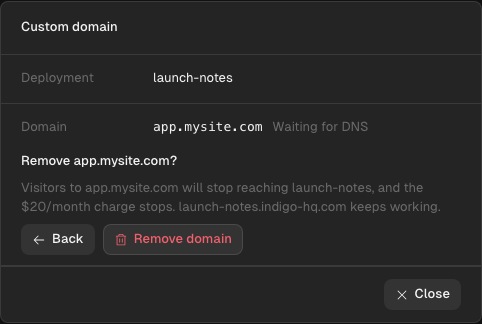
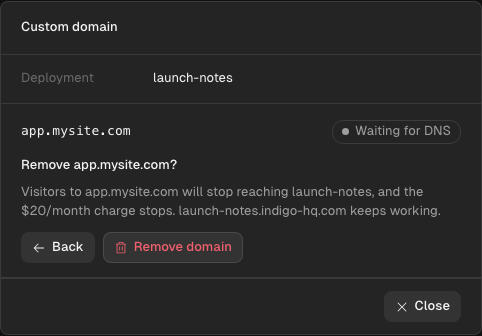
feat(deployments): clean DNS step in the Custom domain sheet
Yousuf asked for a cleaner DNS popup. The domain sits at the top with a
status chip (Waiting for DNS, Verifying, Live). Each record is a numbered
card with a plain title, one purpose line, and Name and Value rows with
their own copy buttons. Long names wrap once, after the random label, so
the domain stays whole. Verifying covers a check in progress and an issued
certificate that is not serving yet. Remove is a ghost button. 13px only;
hierarchy from weight, tone and hairlines, on the app tokens.

diff --git a/packages/ui/src/company/files-connect/CustomDomainForm.svelte b/packages/ui/src/company/files-connect/CustomDomainForm.svelte
@@ -18,8 +18,9 @@
     dnsRecordsFor,
     domainErrorCopy,
     domainInputProblem,
-    domainStatusCopy,
+    domainStatus,
     formatUsd,
+    hostSegments,
     inputProblemCopy,
     listWithRetry,
     LIST_RETRY_DELAYS_MS,
@@ -246,9 +247,14 @@
     }
   }
 
-  function status(d: DomainRecord): string {
-    return domainStatusCopy(d, serving[d.domain] === true, certStatus[d.domain] ?? "");
+  function status(d: DomainRecord) {
+    return domainStatus(d, serving[d.domain] === true, certStatus[d.domain] ?? "", busy === "refresh");
   }
+  const recordTitle = (r: DnsRecord) => (r.purpose === "ownership" ? "Certificate record" : "Website record");
+  const recordWhy = (r: DnsRecord, domain: string) =>
+    r.purpose === "ownership"
+      ? `Lets HQ confirm you own ${domain} and set up its secure (https) certificate.`
+      : `Sends people who visit ${domain} to ${appName}.`;
   const isLive = (d: DomainRecord) => serving[d.domain] === true || d.state === "validated";
 </script>
 
@@ -264,17 +270,14 @@
   {:else}
     {#each domains as d (d.domain)}
       <div class="domain" data-testid="custom-domain-row" data-domain={d.domain}>
-        <div class="fr">
-          <span class="lb">Domain</span>
-          <span class="dline">
-            <span class="mono">{d.domain}</span>
-            <span class="st" class:live={isLive(d)} data-testid="custom-domain-status">{status(d)}</span>
-          </span>
+        <div class="head">
+          <span class="mono name">{d.domain}</span>
+          <span class="chip" data-tone={status(d).tone} data-testid="custom-domain-status"><i class="dot" aria-hidden="true"></i>{status(d).label}</span>
         </div>
         {#if canManage && confirmRemove === d.domain}
           <div class="confirm" data-testid="custom-domain-confirm">
             <p class="sec">Remove {d.domain}?</p>
-            <p class="hint flat">Visitors to {d.domain} will stop reaching {appName}, and the {price} charge stops. {appHost ? `${appHost} keeps working.` : ""}</p>
+            <p class="flat body">Visitors to {d.domain} will stop reaching {appName}, and the {price} charge stops. {appHost ? `${appHost} keeps working.` : ""}</p>
             <div class="row-actions">
               <RailButton icon="arrow-left" disabled={busy === "remove"} onclick={() => (confirmRemove = null)}>Back</RailButton>
               <RailButton icon="trash" variant="danger" data-testid="custom-domain-remove-confirm" disabled={busy === "remove"} aria-busy={busy === "remove"} onclick={() => void remove(d.domain)}>{busy === "remove" ? "Removing…" : "Remove domain"}</RailButton>
@@ -286,29 +289,48 @@
               {#if preparing[d.domain]}
                 <p class="hint flat" role="status" data-testid="custom-domain-records-loading">Getting the DNS records for {d.domain}…</p>
               {:else}
-                <p class="hint flat">Add {(records[d.domain] ?? []).length === 1 ? "this record" : "these records"} at the company that hosts DNS for {d.domain}:</p>
-                <div class="grid" role="table" aria-label={`DNS records for ${d.domain}`}>
-                  <div class="gh" role="row"><span role="columnheader">Type</span><span role="columnheader">Name</span><span role="columnheader">Value</span><span></span></div>
-                  {#each records[d.domain] ?? [] as r (r.name)}
-                    <div class="gr" role="row" data-testid={`custom-domain-record-${r.purpose}`}>
-                      <span role="cell">{r.type}</span>
-                      <span role="cell" class="mono">{r.name}</span>
-                      <span role="cell" class="mono">{r.value}</span>
-                      <button data-icon-only class="copy" type="button" data-testid="custom-domain-copy" aria-label={copied === r.value ? "Copied" : `Copy ${r.purpose === "routing" ? "target" : "value"}`} title={copied === r.value ? "Copied" : "Copy"} onclick={() => void copy(r.value)}><RailIcon name={copied === r.value ? "check" : "copy"} /></button>
-                    </div>
-                    <p class="why">{r.purpose === "ownership" ? "Proves you own the domain so HQ can issue its certificate." : "Sends visitors to this deployment."}</p>
-                  {/each}
-                </div>
+                {#if status(d).tone === "verifying" && busy !== "refresh"}
+                  <p class="lead" data-testid="custom-domain-verifying">HQ found your records and is finishing setup. This usually takes a few minutes. Keep the records in place.</p>
+                {:else}
+                  <p class="lead">Add {(records[d.domain] ?? []).length === 1 ? "this record" : `these ${(records[d.domain] ?? []).length} records`} where you manage DNS for {d.domain}, usually the site where you bought it. Then choose Check again.</p>
+                {/if}
+                {#each records[d.domain] ?? [] as r, i (r.name)}
+                  <section class="rec" aria-label={recordTitle(r)} data-testid={`custom-domain-record-${r.purpose}`}>
+                    <header class="rh">
+                      <span class="num" aria-hidden="true">{i + 1}</span>
+                      <span class="rt">{recordTitle(r)}</span>
+                      <span class="type" title="Record type">{r.type}</span>
+                    </header>
+                    <p class="why">{recordWhy(r, d.domain)}</p>
+                    <dl class="kv">
+                      {#each [["Name", r.name], ["Value", r.value]] as [label, text] (label)}
+                        <dt>{label}</dt>
+                        <dd class="mono" title={text}>{#each hostSegments(text) as part, j (j)}<span class="seg">{part}</span><wbr />{/each}</dd>
+                        <button
+                          data-icon-only
+                          class="copy"
+                          type="button"
+                          data-testid={label === "Name" ? "custom-domain-copy-name" : "custom-domain-copy"}
+                          aria-label={copied === text ? "Copied" : `Copy ${label.toLowerCase()}`}
+                          title={copied === text ? "Copied" : `Copy ${label.toLowerCase()}`}
+                          onclick={() => void copy(text)}
+                        ><RailIcon name={copied === text ? "check" : "copy"} /></button>
+                      {/each}
+                    </dl>
+                  </section>
+                {/each}
                 {#if !(records[d.domain] ?? []).some((r) => r.purpose === "ownership")}
                   <p class="hint flat" data-testid="custom-domain-records-partial">The certificate record isn't ready yet. Check again in a minute to see it.</p>
                 {/if}
+                {#if status(d).tone !== "verifying"}<p class="tip" data-testid="custom-domain-name-tip">If your DNS site adds {d.domain} to names by itself, enter only the part before it, or @ for {d.domain} itself.</p>{/if}
               {/if}
             </div>
           {/if}
           <div class="row-actions">
             {#if !isLive(d)}<RailButton icon="refresh" data-testid="custom-domain-refresh" disabled={busy !== null || preparing[d.domain] === true} aria-busy={busy === "refresh"} onclick={() => void refresh(d.domain)}>{busy === "refresh" ? "Checking…" : "Check again"}</RailButton>{/if}
             {#if isLive(d)}<RailButton icon="external" onclick={() => openExternal?.(`https://${d.domain}`)}>Open</RailButton>{/if}
-            <RailButton icon="trash" data-testid="custom-domain-remove" disabled={busy !== null} onclick={() => { confirmRemove = d.domain; actionError = null; notice = null; }}>Remove</RailButton>
+            <span class="grow"></span>
+            <RailButton icon="trash" variant="ghost" data-testid="custom-domain-remove" disabled={busy !== null} onclick={() => { confirmRemove = d.domain; actionError = null; notice = null; }}>Remove</RailButton>
           </div>
         {/if}
       </div>
@@ -373,20 +395,38 @@
   .mono { font-family: var(--font-mono, ui-monospace, monospace); overflow-wrap: anywhere; }
   .loading { padding: 6px 12px; }
   .domain { border-bottom: 1px solid var(--panel-border, var(--v4-rowline)); }
-  .domain .fr { border-bottom: 0; }
-  .dline { display: flex; align-items: center; gap: 10px; min-width: 0; flex-wrap: wrap; }
-  .st { color: var(--t3, var(--v4-text-3)); }
-  .st.live { color: var(--ok-ink, var(--t1)); }
-  .dns { display: flex; flex-direction: column; gap: 8px; padding: 0 20px 10px; }
-  .grid { display: grid; grid-template-columns: 56px minmax(0, 1fr) minmax(0, 1.4fr) auto; gap: 4px 10px; align-items: start; }
-  .gh, .gr { display: contents; }
-  .gh span { color: var(--t3, var(--v4-text-3)); }
-  .why { grid-column: 2 / -1; margin: -2px 0 6px; color: var(--t3, var(--v4-text-3)); }
+  /* Domain status: the name, then a chip. Weight and tone carry the hierarchy; 13px throughout. */
+  .head { display: flex; align-items: center; gap: 12px; min-height: 28px; padding: 14px 20px 10px; }
+  .head .name { flex: 1; min-width: 0; font-weight: 500; color: var(--t1, var(--v4-text-1)); }
+  .chip { display: inline-flex; align-items: center; gap: 6px; flex: none; height: 22px; padding: 0 9px; border-radius: 11px; border: 1px solid var(--line2, var(--v4-control-border)); color: var(--t2, var(--v4-text-2)); white-space: nowrap; }
+  .chip[data-tone="failed"] { white-space: normal; height: auto; padding: 3px 9px; }
+  .dot { width: 7px; height: 7px; border-radius: 50%; flex: none; background: var(--t2, var(--v4-text-2)); }
+  .chip[data-tone="verifying"] .dot, .chip[data-tone="failed"] .dot { background: var(--warn, var(--v4-warn)); }
+  .chip[data-tone="live"] { color: var(--ok-ink, var(--t1)); }
+  .chip[data-tone="live"] .dot { background: var(--ok, var(--v4-ok)); }
+  .dns { display: flex; flex-direction: column; gap: 12px; padding: 0 20px 14px; }
+  .lead { margin: 0; color: var(--t2, var(--v4-text-2)); }
+  /* One card per record: number, plain title, type; a purpose line; Name and Value with copy. */
+  .rec { border: 1px solid var(--line2, var(--v4-control-border)); border-radius: 6px; padding: 12px; display: flex; flex-direction: column; gap: 8px; }
+  .rh { display: flex; align-items: center; gap: 8px; }
+  .num { display: inline-grid; place-items: center; width: 18px; height: 18px; border-radius: 50%; border: 1px solid var(--line2, var(--v4-control-border)); color: var(--t2, var(--v4-text-2)); flex: none; }
+  .rt { flex: 1; font-weight: 500; }
+  .type { color: var(--t3, var(--v4-text-3)); font-family: var(--font-mono, ui-monospace, monospace); }
+  .why { margin: 0; color: var(--t2, var(--v4-text-2)); }
+  .kv { display: grid; grid-template-columns: 44px minmax(0, 1fr) 24px; gap: 8px; align-items: start; margin: 0; padding-top: 10px; border-top: 1px solid var(--panel-border, var(--v4-rowline)); }
+  /* Label, first line of the value and the copy icon share one 24px line. */
+  .kv dt { color: var(--t2, var(--v4-text-2)); line-height: 24px; }
+  .kv dd { margin: 0; padding: 3px 0; line-height: 18px; color: var(--t1, var(--v4-text-1)); }
+  .kv .seg { display: inline-block; max-width: 100%; overflow-wrap: anywhere; }
+  .kv .copy { align-self: start; }
+  .tip { margin: 2px 0 0; color: var(--t2, var(--v4-text-2)); }
   .copy { display: inline-grid; place-items: center; width: 24px; height: 24px; border: 0; border-radius: 6px; padding: 0; background: transparent; color: var(--t2, var(--v4-text-2)); cursor: pointer; }
   .copy:hover { background: var(--hover, var(--v4-hover)); color: var(--t1, var(--v4-text-1)); }
   .copy:focus-visible { outline: 2px solid var(--v4-focus, currentColor); outline-offset: 2px; border-radius: 3px; }
-  .row-actions { display: flex; gap: 8px; padding: 0 20px 10px; }
+  .row-actions { display: flex; align-items: center; gap: 8px; padding: 0 20px 12px; }
   .hint.note .row-actions, .confirm .row-actions { padding: 0; }
-  .confirm { display: flex; flex-direction: column; gap: 8px; padding: 0 20px 10px; }
+  .confirm { display: flex; flex-direction: column; gap: 8px; padding: 0 20px 14px; }
   .confirm .sec { margin: 0; font-weight: 500; }
+  .confirm .body { color: var(--t2, var(--v4-text-2)); }
+  .confirm .row-actions { padding-top: 4px; }
 </style>

diff --git a/packages/ui/src/company/files-connect/CustomDomainForm.test.ts b/packages/ui/src/company/files-connect/CustomDomainForm.test.ts
@@ -174,6 +174,53 @@ describe("US-007 CustomDomainForm", () => {
     expect(q(target, "custom-domain-record-routing")?.textContent).toContain("hq-lifecycle-email-map.indigo-hq.com");
   });
 
+  it("lays each record out as a titled card with its purpose, Name and Value, and a copy button for each", async () => {
+    const writeText = vi.fn(async () => {});
+    Object.defineProperty(navigator, "clipboard", { value: { writeText }, configurable: true });
+    const { target } = render((method) => (method === "GET" ? pending() : refreshPending([certRecord()])));
+    await settleTimers();
+    const status = q(target, "custom-domain-status");
+    expect(status?.textContent).toBe("Waiting for DNS");
+    expect(status?.dataset.tone).toBe("waiting");
+
+    const cert = q(target, "custom-domain-record-ownership")!;
+    const site = q(target, "custom-domain-record-routing")!;
+    expect(cert.textContent).toContain("Certificate record");
+    expect(cert.textContent).toContain("confirm you own app.example.com");
+    expect(site.textContent).toContain("Website record");
+    expect(site.textContent).toContain("Sends people who visit app.example.com to launch-notes");
+    // Long values wrap once, after the random first label; the rest stays whole.
+    const valueParts = [...(cert.querySelectorAll("dd")[1]?.querySelectorAll(".seg") ?? [])].map((el) => el.textContent);
+    expect(valueParts).toEqual(["_xyz.", "acm-validations.aws"]);
+
+    (site.querySelector("[data-testid='custom-domain-copy-name']") as HTMLButtonElement).click();
+    await settle();
+    expect(writeText).toHaveBeenCalledWith("app.example.com");
+    expect(q(target, "custom-domain-name-tip")?.textContent).toContain("@");
+  });
+
+  it("shows Verifying while a check runs and once the certificate is issued", async () => {
+    let release: (v: { status: number; body: unknown }) => void = () => {};
+    let refreshes = 0;
+    const request = vi.fn(async (_scope: string, method: string) => {
+      if (method === "GET") return ok(pending());
+      refreshes += 1;
+      if (refreshes === 1) return ok(refreshPending([certRecord()]));
+      return ok(await new Promise<{ status: number; body: unknown }>((resolve) => (release = resolve)));
+    });
+    const { target } = render(() => ({ status: 200, body: {} }), { request });
+    await settleTimers();
+    (q(target, "custom-domain-refresh") as HTMLButtonElement).click();
+    await settle();
+    expect(q(target, "custom-domain-status")?.textContent).toBe("Verifying");
+    release({ status: 200, body: { ok: true, certStatus: "ISSUED", validationState: "pending", serving: false } });
+    await settle();
+    // Certificate issued, serving not attached yet: still Verifying, not Waiting for DNS.
+    expect(q(target, "custom-domain-status")?.textContent).toBe("Verifying");
+    expect(q(target, "custom-domain-status")?.dataset.tone).toBe("verifying");
+    expect(q(target, "custom-domain-verifying")?.textContent).toContain("HQ found your records");
+  });
+
   it("never steers people to a subdomain", async () => {
     const empty = render(() => none());
     await settle();
@@ -313,7 +360,7 @@ describe("US-007 CustomDomainForm", () => {
     await settleTimers();
     const button =target.querySelector("[data-testid='custom-domain-record-routing'] [data-testid='custom-domain-copy']") as HTMLButtonElement;
     expect(button.querySelector("svg")).not.toBeNull();
-    expect(button.getAttribute("aria-label")).toBe("Copy target");
+    expect(button.getAttribute("aria-label")).toBe("Copy value");
     button.click();
     await settle();
     expect(writeText).toHaveBeenCalledWith("launch-notes.indigo-hq.com");

diff --git a/packages/ui/src/company/files-connect/custom-domain.ts b/packages/ui/src/company/files-connect/custom-domain.ts
@@ -410,12 +410,40 @@ export async function readLiveCustomDomainUrl(request: DeployDomainRequest, scop
 }
 
 /** Plain status line for a domain. */
-export function domainStatusCopy(record: DomainRecord, serving: boolean, certStatus = ""): string {
-  if (serving || record.state === "validated") return "Live";
+export function domainStatusCopy(record: DomainRecord, serving: boolean, certStatus = "", checking = false): string {
+  return domainStatus(record, serving, certStatus, checking).label;
+}
+
+export type DomainStatusTone = "waiting" | "verifying" | "live" | "failed";
+
+/**
+ * Where a domain is in setup, for the status chip. Verifying covers a check in
+ * progress and the stretch after the certificate is issued while HQ finishes
+ * pointing the domain at the deployment.
+ */
+export function domainStatus(
+  record: DomainRecord,
+  serving: boolean,
+  certStatus = "",
+  checking = false,
+): { tone: DomainStatusTone; label: string } {
+  if (serving || record.state === "validated") return { tone: "live", label: "Live" };
+  if (checking || certStatus === "ISSUED") return { tone: "verifying", label: "Verifying" };
   if (record.state === "failed" || certStatus === "FAILED" || certStatus === "VALIDATION_TIMED_OUT") {
-    return "Couldn't verify. Check the DNS records, then check again";
+    return { tone: "failed", label: "Couldn't verify. Check the DNS records, then check again" };
   }
-  return "Waiting for DNS";
+  return { tone: "waiting", label: "Waiting for DNS" };
+}
+
+/**
+ * A DNS name or value in at most two pieces: the first label with its dot,
+ * then the rest. Long ACM names wrap once, after the random label, and keep
+ * the domain (or `acm-validations.aws`) whole on the next line.
+ */
+export function hostSegments(value: string): string[] {
+  const dot = value.indexOf(".");
+  if (dot <= 0 || dot === value.length - 1) return [value];
+  return [value.slice(0, dot + 1), value.slice(dot + 1)];
 }
 
 /** Owners and admins manage domains; everyone else sees status only. */

diff --git a/apps/sync/dev-harness/CustomDomainShot.svelte b/apps/sync/dev-harness/CustomDomainShot.svelte
@@ -1,6 +1,6 @@
 <!--
   Custom domain sheet on fixture data, for screenshots:
-  ?view=custom-domain-shot&state=empty|card|pending|apex|live|member|failed
+  ?view=custom-domain-shot&state=empty|card|pending|apex|issued|live|member|failed
   Answers follow hq-deploy's /api/apps/:id/domains shapes; names are fictional.
 -->
 <script lang="ts">
@@ -13,7 +13,7 @@
   const state = params.get('state') ?? 'empty';
   const ok = <T,>(value: T) => ({ ok: true as const, value });
   const domain = state === 'apex' ? 'mysite.com' : 'app.mysite.com';
-  const listed = state === 'pending' || state === 'apex' || state === 'live' || state === 'member';
+  const listed = state === 'pending' || state === 'apex' || state === 'issued' || state === 'live' || state === 'member';
   const validationState = state === 'live' ? 'validated' : 'pending';
 
   async function request(_scope: string, method: string, path: string) {
@@ -25,7 +25,7 @@
       return ok({ status: 402, body: { error: { status: 402, code: 'PAYMENT_METHOD_REQUIRED', message: 'A payment method is required' } } });
     }
     if (method === 'POST') {
-      return ok({ status: 200, body: { ok: true, validationState: 'pending', certStatus: 'PENDING_VALIDATION', serving: false, dnsInstructions: [{ type: 'CNAME', name: `_3f1c9a.${domain}.`, value: '_8d2e47.acm-validations.aws.' }] } });
+      return ok({ status: 200, body: { ok: true, validationState: 'pending', certStatus: state === 'issued' ? 'ISSUED' : 'PENDING_VALIDATION', serving: false, dnsInstructions: [{ type: 'CNAME', name: `_a79865eb4cd1a6ab990a45779b4e0b96.${domain}.`, value: '_424c7224e9b0146f9a8808af955727d5.djqtsrsxkq.acm-validations.aws.' }] } });
     }
     return ok({ status: 200, body: { ok: true, remaining: 0 } });
   }

diff --git a/packages/ui/src/company/files-connect/custom-domain.test.ts b/packages/ui/src/company/files-connect/custom-domain.test.ts
@@ -9,7 +9,9 @@ import {
   domainInputProblem,
   domainPricesFromFeed,
   awaitOwnershipRecord,
+  domainStatus,
   hasOwnershipRecord,
+  hostSegments,
   liveCustomDomainUrl,
   normalizeDomainInput,
   routingTargetFor,
@@ -66,6 +68,18 @@ describe("US-007 custom-domain model", () => {
     const partial = await awaitOwnershipRecord({ refresh: empty }, "app_1", "app.example.com", [routing], [0, 0]);
     expect(empty).toHaveBeenCalledTimes(3);
     expect(hasOwnershipRecord("app.example.com", partial.instructions)).toBe(false);
+  });
+
+  it("reports Waiting for DNS, Verifying and Live, and splits long names after dots", () => {
+    const pendingRecord = { domain: "mysite.com", state: "pending" as const };
+    expect(domainStatus(pendingRecord, false).tone).toBe("waiting");
+    expect(domainStatus(pendingRecord, false, "PENDING_VALIDATION", true)).toEqual({ tone: "verifying", label: "Verifying" });
+    expect(domainStatus(pendingRecord, false, "ISSUED").label).toBe("Verifying");
+    expect(domainStatus(pendingRecord, true).label).toBe("Live");
+    expect(domainStatus({ domain: "mysite.com", state: "failed" }, false).tone).toBe("failed");
+    expect(hostSegments("_3f1c9a.mysite.com")).toEqual(["_3f1c9a.", "mysite.com"]);
+    expect(hostSegments("localhost")).toEqual(["localhost"]);
+    expect(hostSegments("launch-notes.indigo-hq.com").join("")).toBe("launch-notes.indigo-hq.com");
   });
 
   it("names the first live custom domain as the deployment's address", () => {

diff --git a/CHANGELOG.md b/CHANGELOG.md
@@ -8,6 +8,7 @@ The release moves it under the version it ships in.
 
 ## [Unreleased]
 
+- Deployments: the Custom domain sheet has a cleaner DNS step. The domain sits at the top with a status chip (Waiting for DNS, Verifying, or Live). Each record is its own numbered card: "Certificate record" or "Website record", one plain line on what it does, then Name and Value, each with its own copy button. Long names wrap once, after the random part, so the domain stays whole. A short line explains what to type when your DNS site adds the domain to names for you. Remove is now a quieter button next to Check again.
 - Deployments: the Custom domain sheet now shows both DNS records together. Before, it often showed only the record that sends visitors to the deployment, and the certificate record appeared later after "Check again". The sheet no longer suggests a subdomain over a bare domain, and the domain box now shows "mysite.com" as its example. Once a custom domain is live, the deployment's address and its Open and Visit buttons use that domain instead of the hq.work address.
 - Marketplace: clicking a creator's @handle on a pack card or in the pack details now opens their profile on hqforwork.com. Before, it opened a page on hq.computer that did not exist.
 - Company Outpost sign-in: when the Outpost takes your code and Claude does not accept it, the card now says "That sign-in code was not accepted. Copy the full code from the Claude page and try again." and shows the new sign-in link with an empty code field. Before, the "Finishing sign-in..." note disappeared without saying the code failed. The card also shows this when you open it after an earlier code failed. With the matching server update, a sign-in link older than about 10 minutes also shows as expired, with New sign-in link, instead of a link that no longer works. With an older server the card behaves as before.
